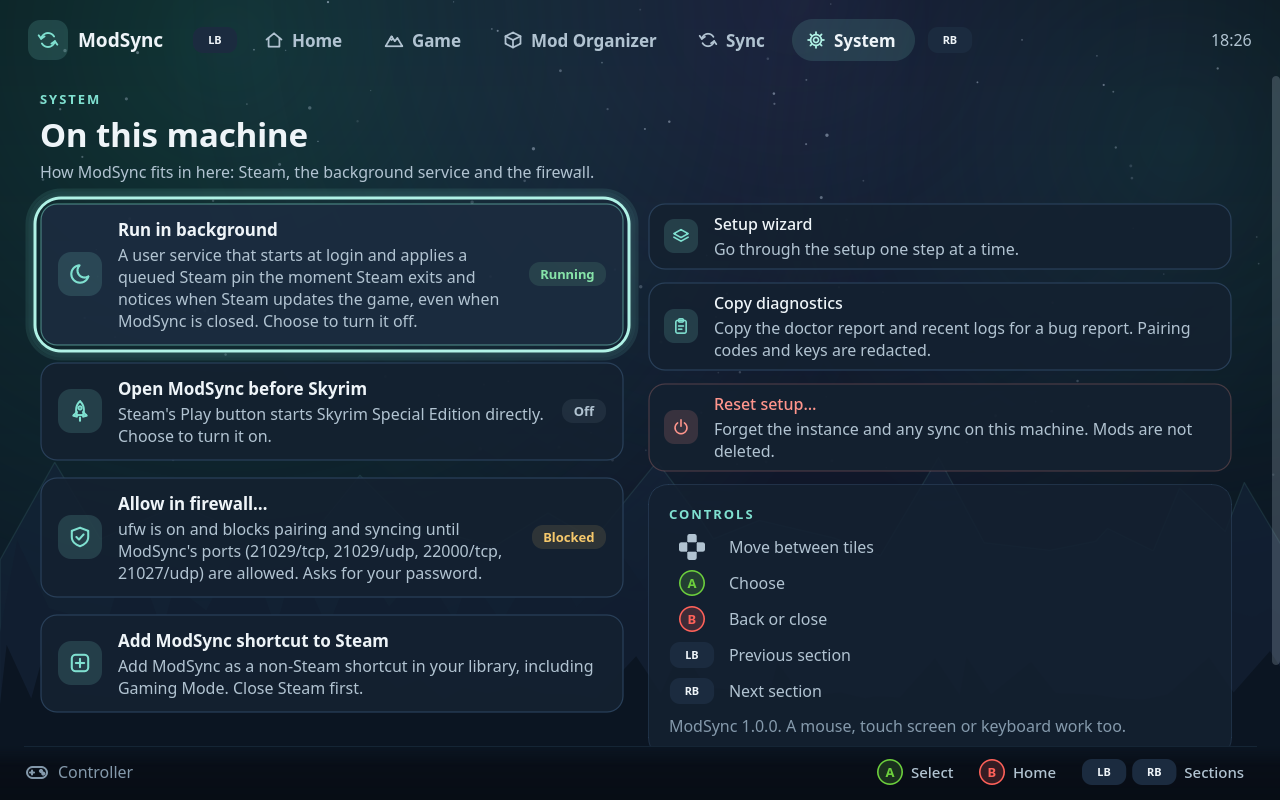
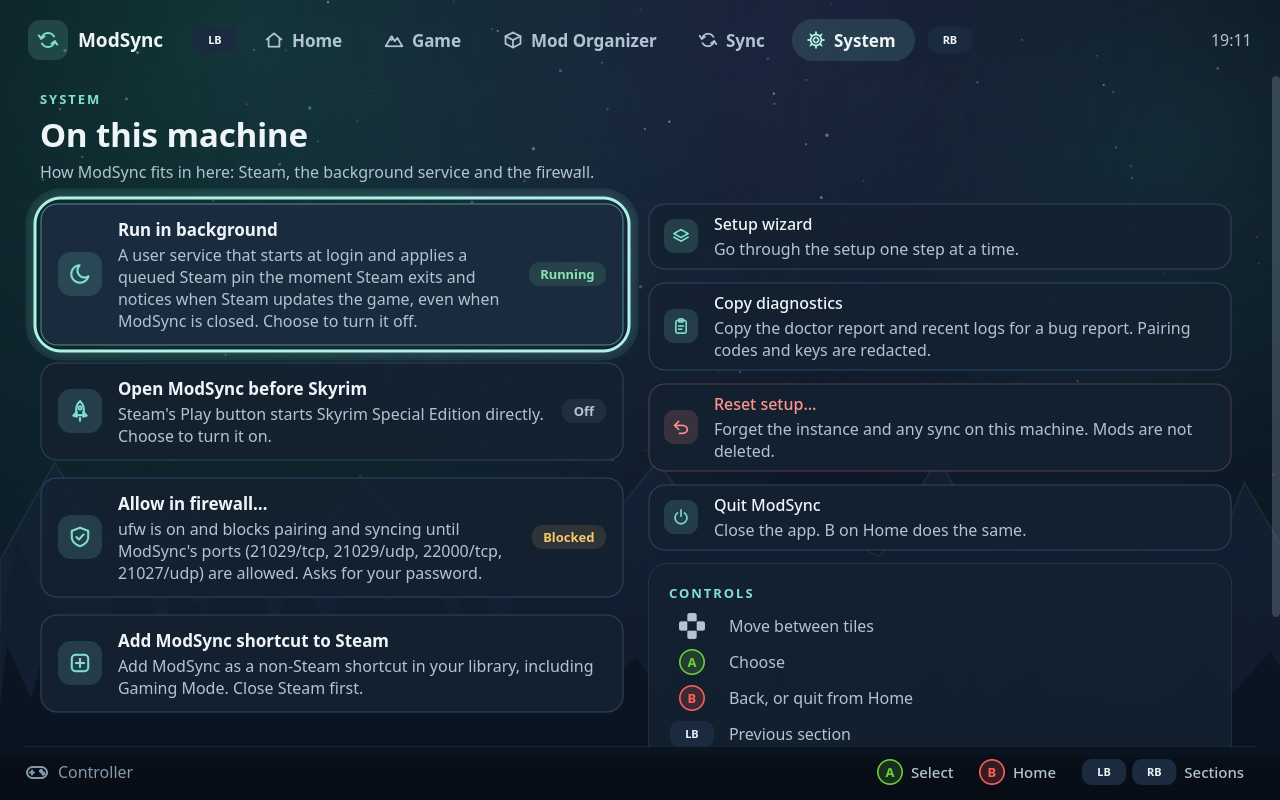
Quit from the controller; fix confirmation tiles answering False
B on Home now asks "Quit ModSync?" (B again stays), and System has a Quit
ModSync tile; Ctrl+Q does the same on a keyboard. While Steam waits, the
question says quitting returns to Steam without starting anything, and
while files are being rewritten it asks to wait instead.

Tile.clicked passes its checked flag, which replaced the key bound into
ConfirmSheet's callbacks (lambda k=key: ...), so choosing any confirmation
tile with A, Enter or a click answered False: downgrade, restore, reset,
stop syncing, the VC++ runtime and quit did nothing. The folder browser's
Home and SD card tiles navigated to False the same way. The sheet tile
helper now drops the argument, and tests choose through real clicks.

Changed region(s): [[0.5, 0.625, 0.875, 0.9375], [0.9688, 0.7812, 1.0, 0.8438]]

diff --git a/tests/test_ui_smoke.py b/tests/test_ui_smoke.py
@@ -452,7 +452,7 @@ class BusyTests(UiTestCase):
                                 panel._start_downgrade()
                             else:
                                 panel._restore_files()
-                            window.top_overlay.choose("go")  # the confirmation sheet
+                            window.top_overlay.tiles["go"].click()  # the confirmation sheet, as A would
                             self.assertTrue(panel.busy)
                             self.assertFalse(window.pages["system"].wizard_tile.isEnabled())
                             self.assertFalse(window.pages["mods"].content.isEnabled())
@@ -646,3 +646,62 @@ class LaunchTests(UiTestCase):
         window = self.window()
         self.assertFalse(window.pages["home"].play.isEnabled())
         self.assertIsNone(window.pages["mods"].open_mo2)
+
+
+class QuitTests(UiTestCase):
+    def test_b_on_home_asks_then_quits(self):
+        from PySide6.QtCore import Qt
+        from PySide6.QtTest import QTest
+
+        window = self.window()
+        self.assertIn("Quit", window.hintbar.texts)
+        QTest.keyClick(self.app.focusWidget(), Qt.Key.Key_Escape)  # B
+        sheet = window.top_overlay
+        self.assertEqual(sheet.title.text(), "Quit ModSync?")
+        self.assertIs(self.app.focusWidget(), sheet.tiles["quit"])
+        QTest.keyClick(self.app.focusWidget(), Qt.Key.Key_Escape)  # B again: stay
+        self.assertIsNone(window.top_overlay)
+        self.assertTrue(window.isVisible())
+        QTest.keyClick(self.app.focusWidget(), Qt.Key.Key_Escape)
+        QTest.keyClick(self.app.focusWidget(), Qt.Key.Key_Return)  # A on Quit
+        self.assertFalse(window.isVisible())
+
+    def test_b_elsewhere_still_goes_home_first(self):
+        from modsync.ui.input import Action, InputRouter
+
+        window = self.window()
+        window.go("system")
+        InputRouter.instance().dispatch(Action.BACK)
+        self.assertEqual(window._current, "home")
+        self.assertIsNone(window.top_overlay)
+
+    def test_quit_from_system_and_ctrl_q(self):
+        from PySide6.QtCore import Qt
+        from PySide6.QtTest import QTest
+
+        window = self.window()
+        window.pages["system"].quit_tile.click()
+        self.assertEqual(window.top_overlay.title.text(), "Quit ModSync?")
+        window.pages["system"].quit_tile.click()  # never stacks a second question
+        self.assertEqual(len(window.overlays), 1)
+        window.top_overlay.cancel()
+        QTest.keyClick(self.app.focusWidget(), Qt.Key.Key_Q, Qt.KeyboardModifier.ControlModifier)
+        window.top_overlay.tiles["quit"].click()
+        self.assertFalse(window.isVisible())
+
+    def test_quitting_while_steam_waits_cancels_the_launch(self):
+        window = self.window(steam=launchhook.SteamLaunch(SKYRIM_SE))
+        window.request_quit()
+        sheet = window.top_overlay
+        self.assertIn("without starting anything", sheet.text.text())
+        self.assertEqual(sheet.tiles["quit"].text(), "Quit and return to Steam")
+        sheet.tiles["quit"].click()
+        self.assertEqual(window.steam_launch.decision, launchhook.EXIT_CANCEL)
+
+    def test_quit_waits_for_file_changes(self):
+        window = self.window()
+        window.set_busy("game", True)
+        window.request_quit()
+        self.assertIsNone(window.top_overlay)
+        self.assertIn("still working", window.last_message)
+        self.assertTrue(window.isVisible())

diff --git a/modsync/ui/main_window.py b/modsync/ui/main_window.py
@@ -406,6 +406,33 @@ class MainWindow(QMainWindow):
             self.notify(f"⚠ {message}")
         self._apply_busy()  # a game started from here may have exited
 
+    # --- quitting ---
+    def request_quit(self) -> None:
+        """Ask before closing: B on Home, Quit under System, or Ctrl+Q. Closing
+        while Steam waits cancels its launch, which the question says."""
+        if self.overlays and isinstance(self.top_overlay, ConfirmSheet) and self.top_overlay.property("quit"):
+            return
+        if self.busy:
+            self.notify("⚠ ModSync is still working. Quit once it has finished.")
+            return
+        steam = self.steam_launch
+        text = (
+            f"Steam is waiting to start {steam.game.name}. Quitting returns to Steam without starting "
+            "anything." if steam is not None else
+            "Syncing and a queued Steam pin carry on only if the background service is on (under System)."
+        )
+
+        def chosen(key: str | None) -> None:
+            if key == "quit":
+                self.close()
+
+        sheet = self.confirm(
+            "Quit ModSync?", text,
+            [("quit", "Quit and return to Steam" if steam is not None else "Quit ModSync", "", "primary", "power"),
+             ("stay", "Stay", "", "normal", "close")],
+            chosen, eyebrow="ModSync")
+        sheet.setProperty("quit", True)
+
     # --- Steam launch ---
     def decide_launch(self, code: int) -> None:
         """Steam launch: record Continue or Cancel, then close so the hook can act.
@@ -492,6 +519,8 @@ class MainWindow(QMainWindow):
         if action == Action.BACK:
             if self._current != "home":
                 self.go("home")
+            else:
+                self.request_quit()  # B at the top level, console style
             return True
         return True  # AUX / ALT with nothing to do here
 
@@ -502,8 +531,7 @@ class MainWindow(QMainWindow):
             hints = self.setup.hints()
         else:
             hints = [*self.page.hints(), ([Action.ACCEPT], "Select")]
-            if self._current != "home":
-                hints.append(([Action.BACK], "Home"))
+            hints.append(([Action.BACK], "Home" if self._current != "home" else "Quit"))
             hints.append(([Action.PREV_TAB, Action.NEXT_TAB], "Sections"))
         self.hintbar.set_hints(hints)
 
@@ -550,6 +578,9 @@ class MainWindow(QMainWindow):
             self.focus_scope_default()
 
     def keyPressEvent(self, event) -> None:  # noqa: N802
+        if event.key() == Qt.Key.Key_Q and event.modifiers() == Qt.KeyboardModifier.ControlModifier:
+            self.request_quit()
+            return
         if event.key() == Qt.Key.Key_F11:
             self.showNormal() if self.isFullScreen() else self.showFullScreen()
             return

diff --git a/tests/test_ui_input.py b/tests/test_ui_input.py
@@ -145,6 +145,11 @@ class SheetTests(UiTestCase):
         answers = []
         sheet = window.confirm("Question", "Text", [("yes", "Yes", "", "primary", None),
                                                     ("no", "No", "", "normal", None)], answers.append)
+        sheet.tiles["no"].click()  # a click answers with its own key
+        self.assertEqual(answers, ["no"])
+        answers.clear()
+        sheet = window.confirm("Question", "Text", [("yes", "Yes", "", "primary", None),
+                                                    ("no", "No", "", "normal", None)], answers.append)
         self.assertIs(self.app.focusWidget(), sheet.tiles["yes"])
         for _ in range(4):  # can't wander out to the page underneath
             QTest.keyClick(self.app.focusWidget(), Qt.Key.Key_Down)
@@ -207,6 +212,17 @@ class SheetTests(UiTestCase):
         self.app.focusWidget().click()
         sheet.use.click()
         self.assertEqual(chosen, [root / "Games"])
+
+    def test_folder_places_open_their_folder(self):
+        from pathlib import Path
+        from modsync.ui.overlays import FolderSheet
+
+        window = self.window()
+        sheet = FolderSheet(window, "Pick", self.tmp, lambda p: None)
+        sheet.open()
+        home = next(t for t in sheet.findChildren(type(sheet.use)) if t.text() == "Home")
+        home.click()
+        self.assertEqual(sheet.path, Path.home())
 
 
 @unittest.skipIf(QApplication is None, "PySide6 not installed")

diff --git a/modsync/ui/pages/system.py b/modsync/ui/pages/system.py
@@ -66,9 +66,12 @@ class SystemPage(Page):
         self.reset_tile = None
         if state.has_instance:
             self.reset_tile = Tile("Reset setup…", "Forget the instance and any sync on this machine. Mods are "
-                                   "not deleted.", "power", role="danger", size="compact")
+                                   "not deleted.", "undo", role="danger", size="compact")
             self.reset_tile.clicked.connect(self._reset)
             right.addWidget(self.reset_tile)
+        self.quit_tile = Tile("Quit ModSync", "Close the app. B on Home does the same.", "power", size="compact")
+        self.quit_tile.clicked.connect(host.request_quit)
+        right.addWidget(self.quit_tile)
         right.addWidget(self._controls_panel())
         right.addStretch(1)
         self.finish_layout()
@@ -89,7 +92,7 @@ class SystemPage(Page):
         for row, (key, text) in enumerate((
             ("dpad", "Move between tiles"),
             ("accept", "Choose"),
-            ("back", "Back or close"),
+            ("back", "Back, or quit from Home"),
             ("prev_tab", "Previous section"),
             ("next_tab", "Next section"),
         )):

diff --git a/modsync/ui/overlays.py b/modsync/ui/overlays.py
@@ -128,7 +128,9 @@ class Overlay(QWidget):
 def _tile(title: str, description: str, role: str, icon: str | None, on_click: Callable[[], None], *,
           size: str = "normal") -> Tile:
     t = Tile(title, description, icon, role=role, size=size)
-    t.clicked.connect(on_click)
+    # Swallow clicked's ``checked`` argument: it would replace a callback's
+    # default argument (``lambda k=key: ...``) with False.
+    t.clicked.connect(lambda _checked=False: on_click())
     return t
 
 

diff --git a/docs/advanced.md b/docs/advanced.md
@@ -46,13 +46,15 @@ keyboard, a mouse and the Deck's touch screen work too.
 | --- | --- | --- |
 | D-pad or left stick | Arrow keys | Move between tiles |
 | A | Enter | Choose |
-| B | Escape | Back: close a sheet, go back a wizard step, or return to Home |
+| B | Escape | Back: close a sheet, go back a wizard step, or return to Home. On Home it asks to quit |
 | LB / RB | Q / E, Ctrl+Tab, or a tap of Ctrl / Alt | Previous / next section |
 | X, Y | | Shortcuts named in the hint bar, such as "Check again" |
 | LT / RT, right stick | Page Up / Page Down | Scroll |
 | Start | Home | Home |
 
-On a keyboard, Space also chooses and Backspace goes back.
+On a keyboard, Space also chooses, Backspace goes back and Ctrl+Q quits.
+"Quit ModSync" under System quits too. When Steam's Play button opened
+ModSync, quitting returns to Steam without starting the game.
 
 The hint bar along the bottom shows the buttons for the device in use, with
 PlayStation symbols for a PlayStation controller. Moving up from the top of a

diff --git a/CHANGELOG.md b/CHANGELOG.md
@@ -47,7 +47,9 @@ All notable changes to ModSync are documented here. The format follows
   combination lock. Home has a readiness checklist (game version, SKSE, Mod
   Organizer 2, sync) next to Play, or Continue when Steam's Play button
   opened ModSync. The setup wizard reuses the same parts and keeps Finish at
-  the top of its last step. ModSync always uses its dark theme now.
+  the top of its last step. B on Home, or "Quit ModSync" under System, asks to
+  quit, so ModSync can be closed without a mouse. ModSync always uses its
+  dark theme now.
 - Controllers work two ways. Outside games, Steam Input's desktop
   configuration turns buttons into keys, and ModSync reads them back as the
   buttons that sent them: Space is Y on a Steam Deck and B on a Steam
